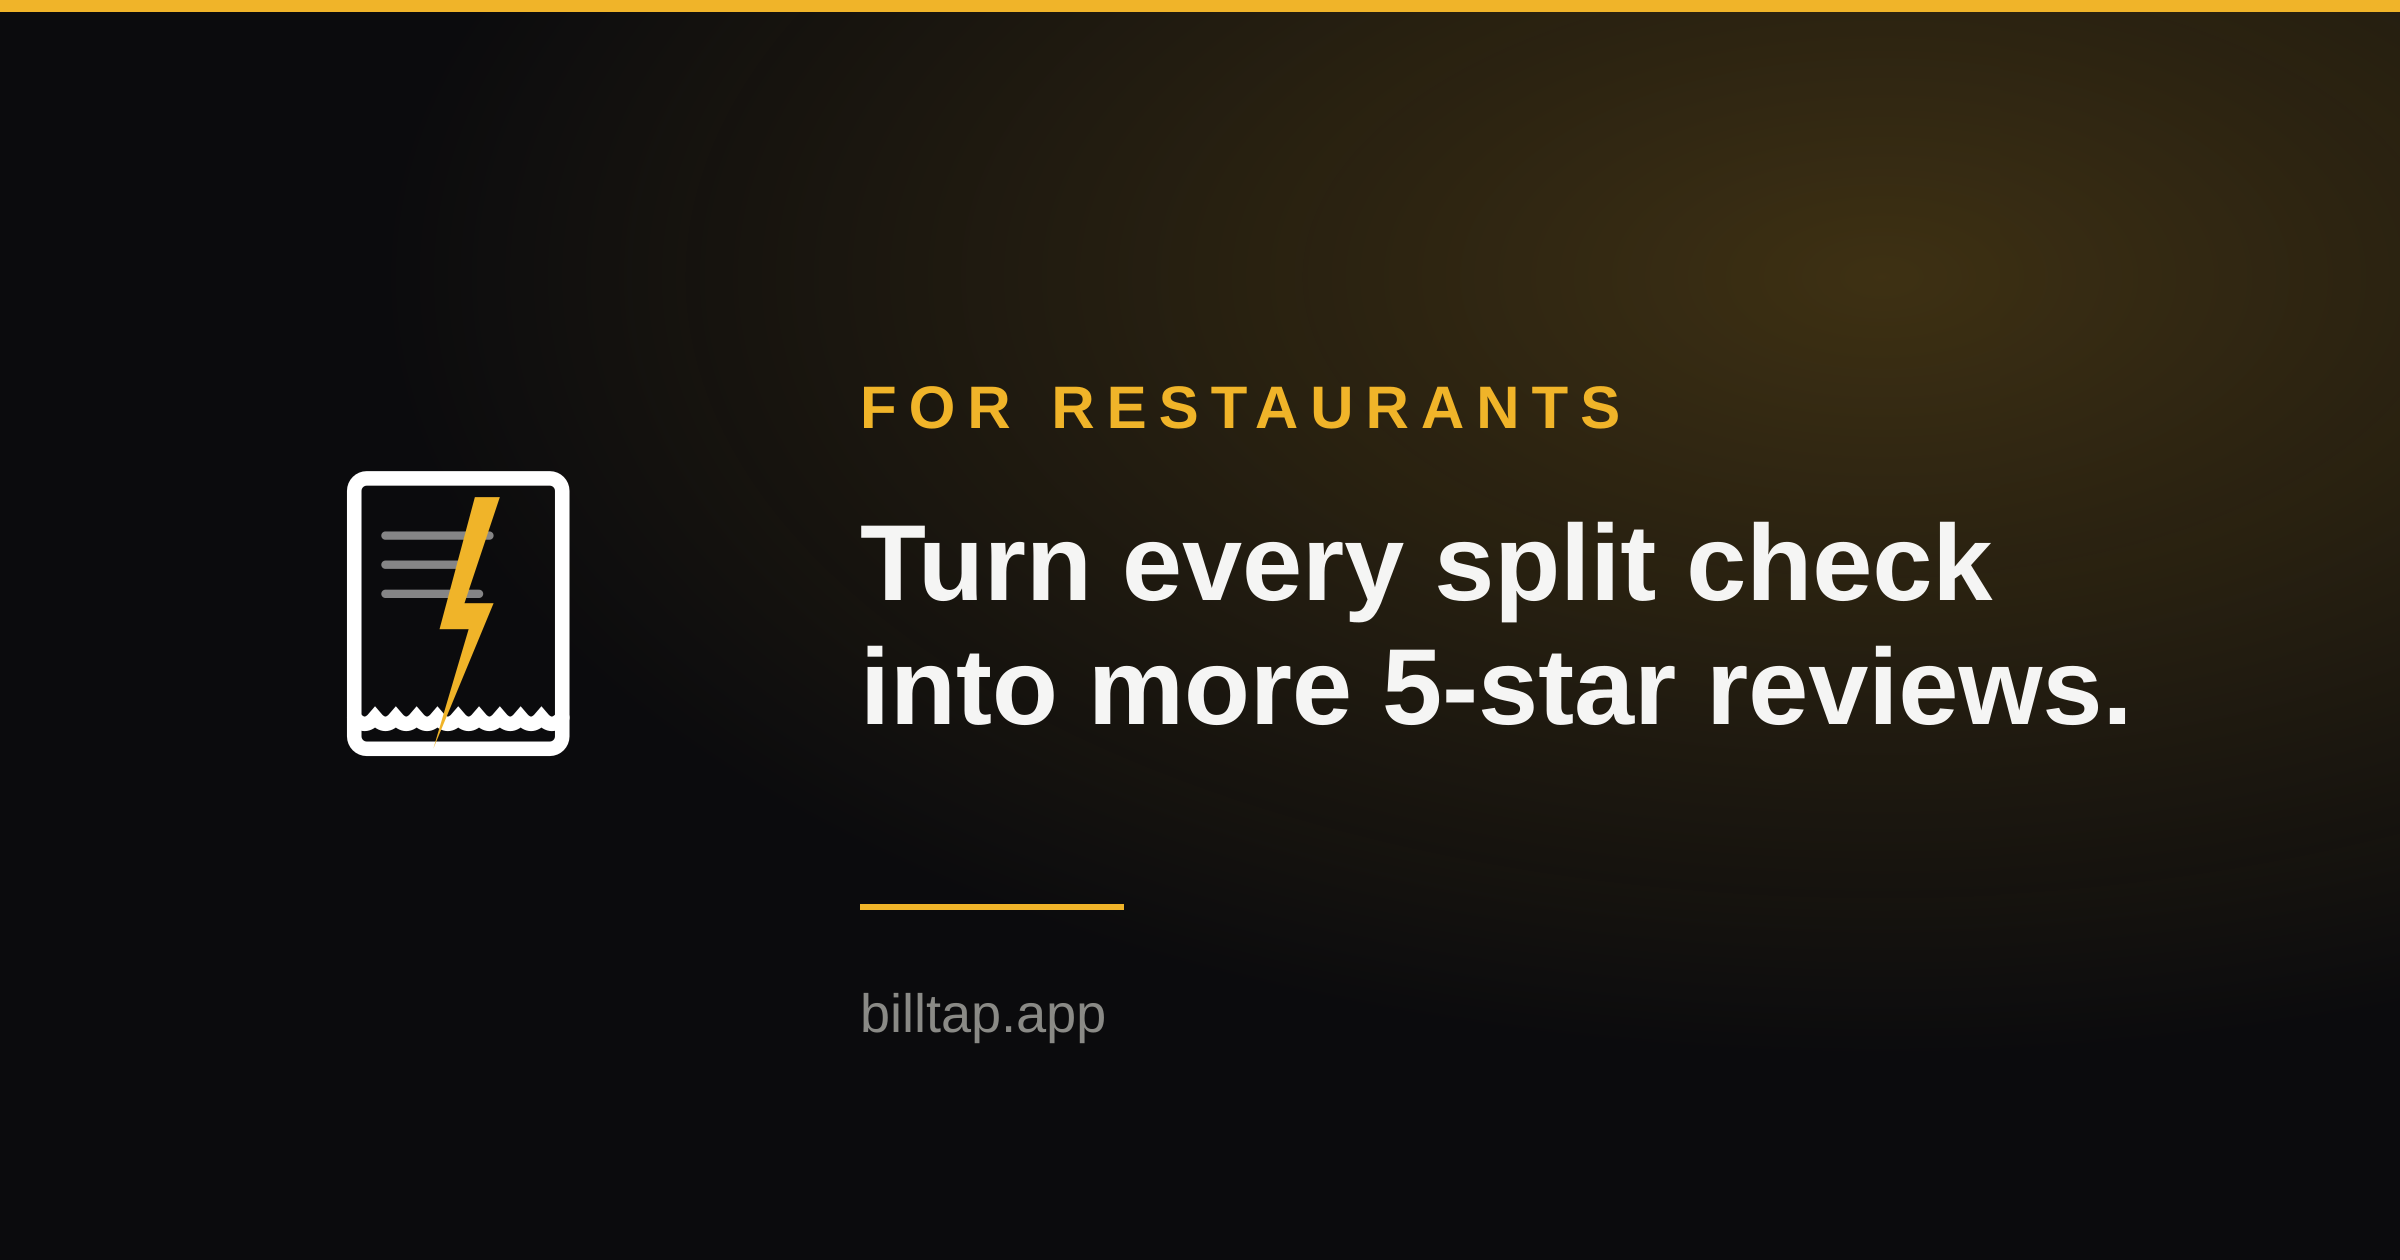
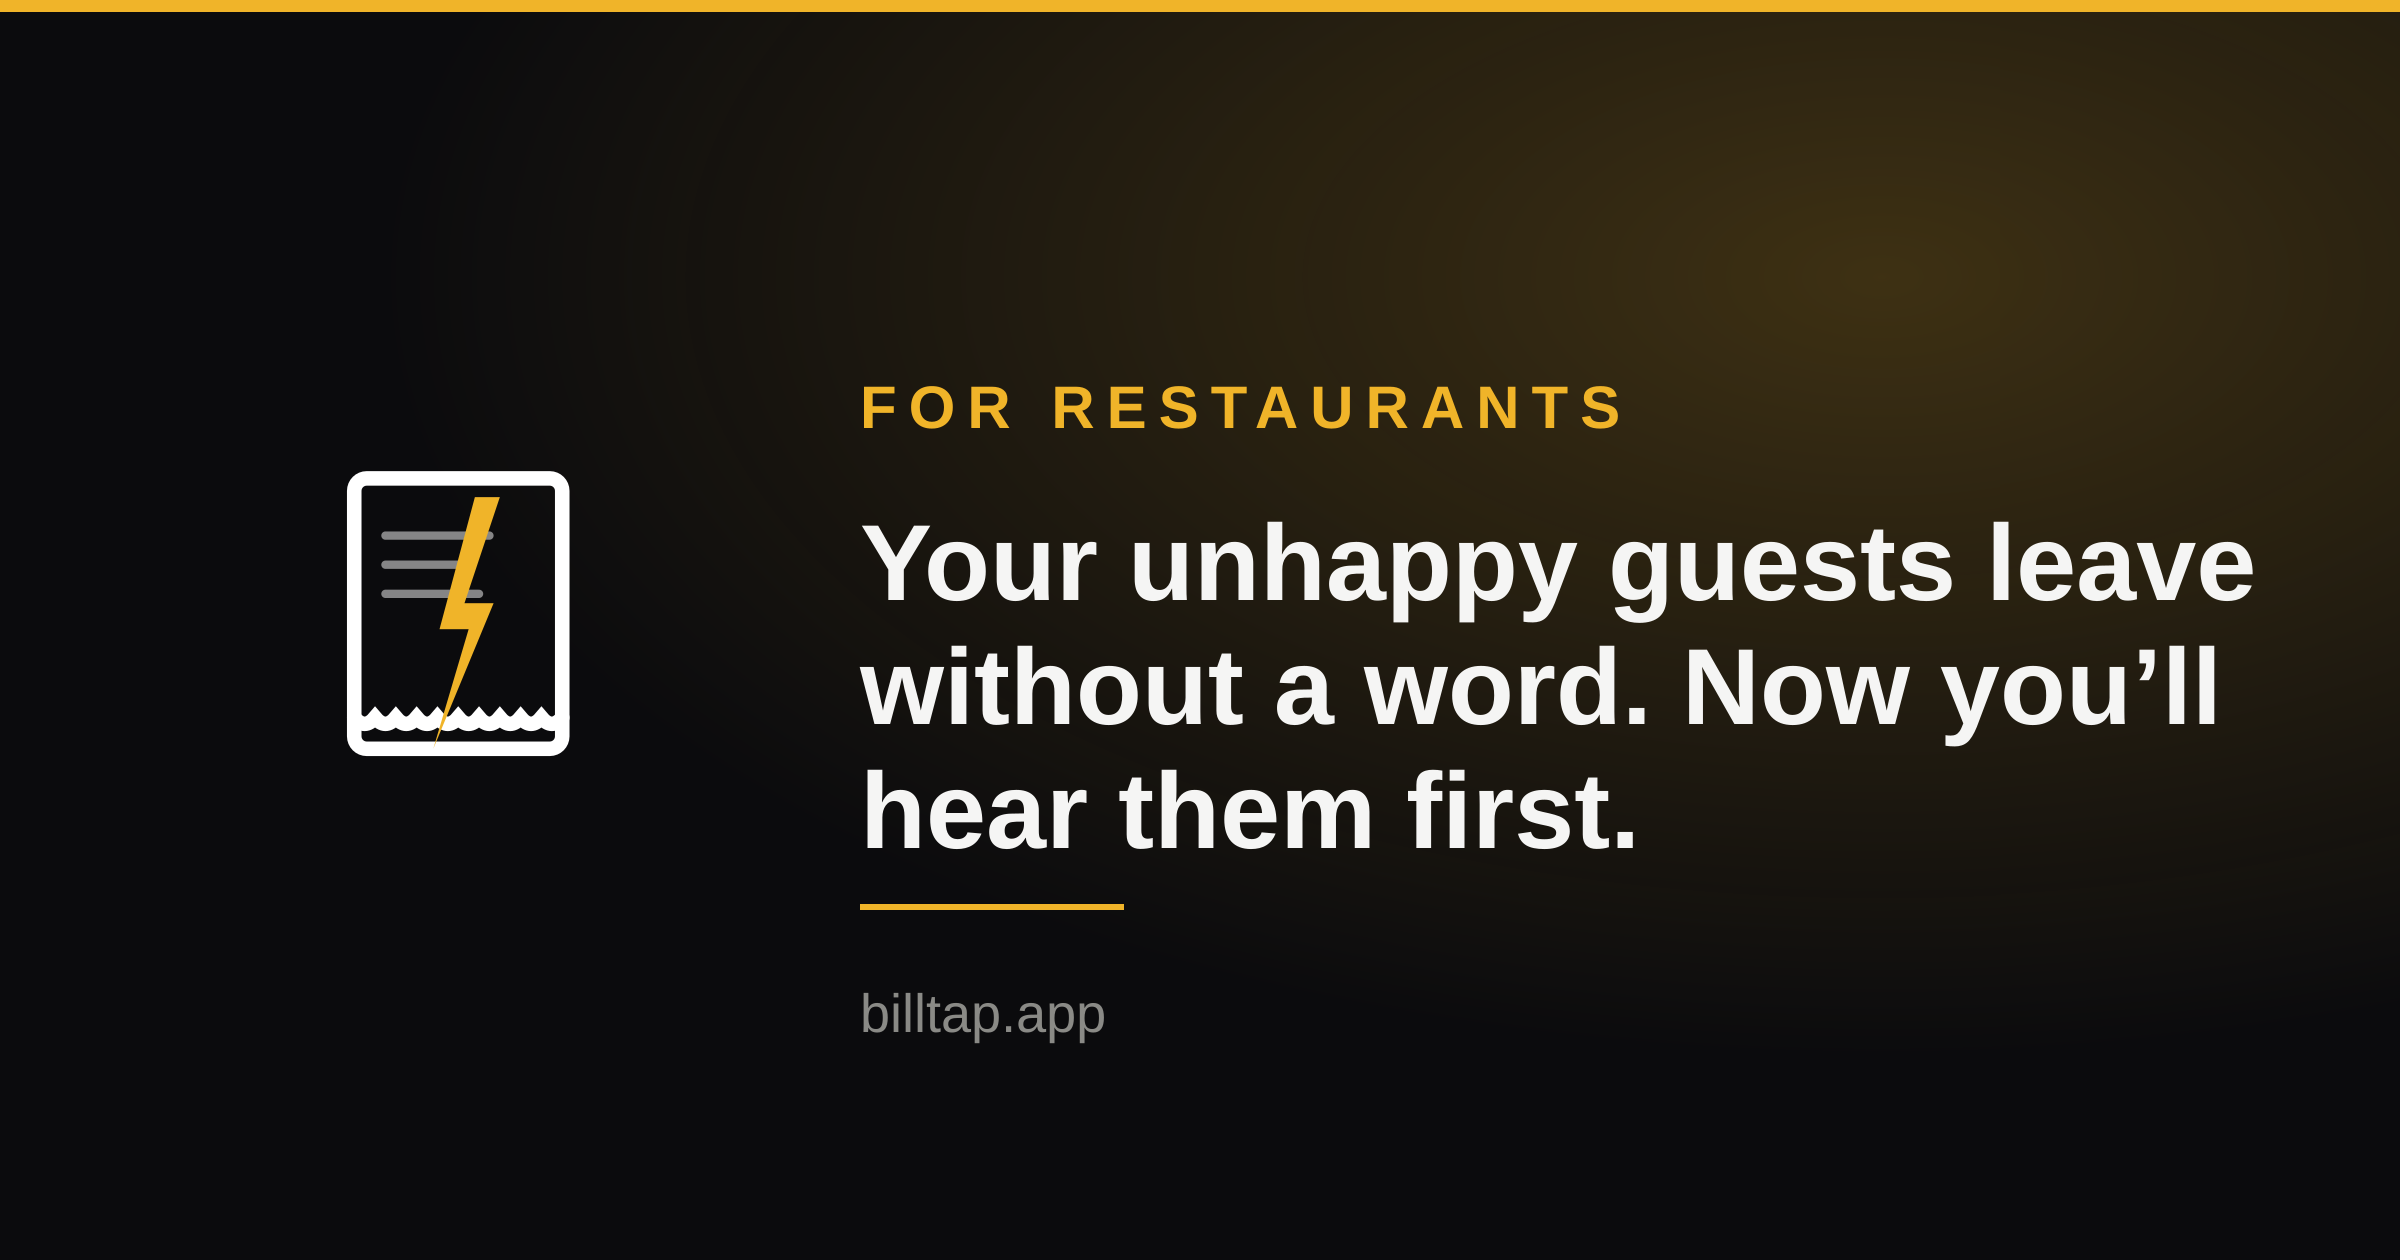
Redraw the restaurants share card to match the new hero
og-restaurants.png still said "Turn every split check / into more 5-star
reviews." after #35 replaced that headline on the page. Regenerated from
scripts/build-brand-images.mjs with the hero's wording: "Your unhappy guests
leave without a word. Now you'll hear them first." The other images the
script writes came out byte-identical and are unchanged.

The page now references the card as og-restaurants.png?v=2, because
Facebook, LinkedIn and Slack cache link previews by image URL and would keep
showing the old card indefinitely.

Also documents, in deploy.yml, what the Deploy workflow's failure since
Sep 14 is: Cloudflare rejects CLOUDFLARE_API_TOKEN ("Invalid access token
[code: 9109]"). The build passes; the secret needs replacing.

Claude-Session: https://claude.ai/code/session_01M6G8ySpAqoV7HDk6QMEvgP

Changed region(s): [[0.3438, 0.4024, 0.9375, 0.681]]

diff --git a/src/pages/Restaurants.jsx b/src/pages/Restaurants.jsx
@@ -372,7 +372,9 @@ export default function Restaurants() {
         path="/restaurants"
         title="Hear Unhappy Guests First, Get More Google Reviews | BillTap"
         description="BillTap asks every guest how it was, at the table or at the counter. A low rating texts you while you can still fix it, and every guest gets a one-tap route to your Google listing. 14-day free trial, $149/month."
-        image="https://billtap.app/img/og-restaurants.png"
+        // ?v= because Facebook, LinkedIn and Slack cache a preview by image URL.
+        // Bump it whenever scripts/build-brand-images.mjs redraws this card.
+        image="https://billtap.app/img/og-restaurants.png?v=2"
         schema={[
           {
             "@context": "https://schema.org",
